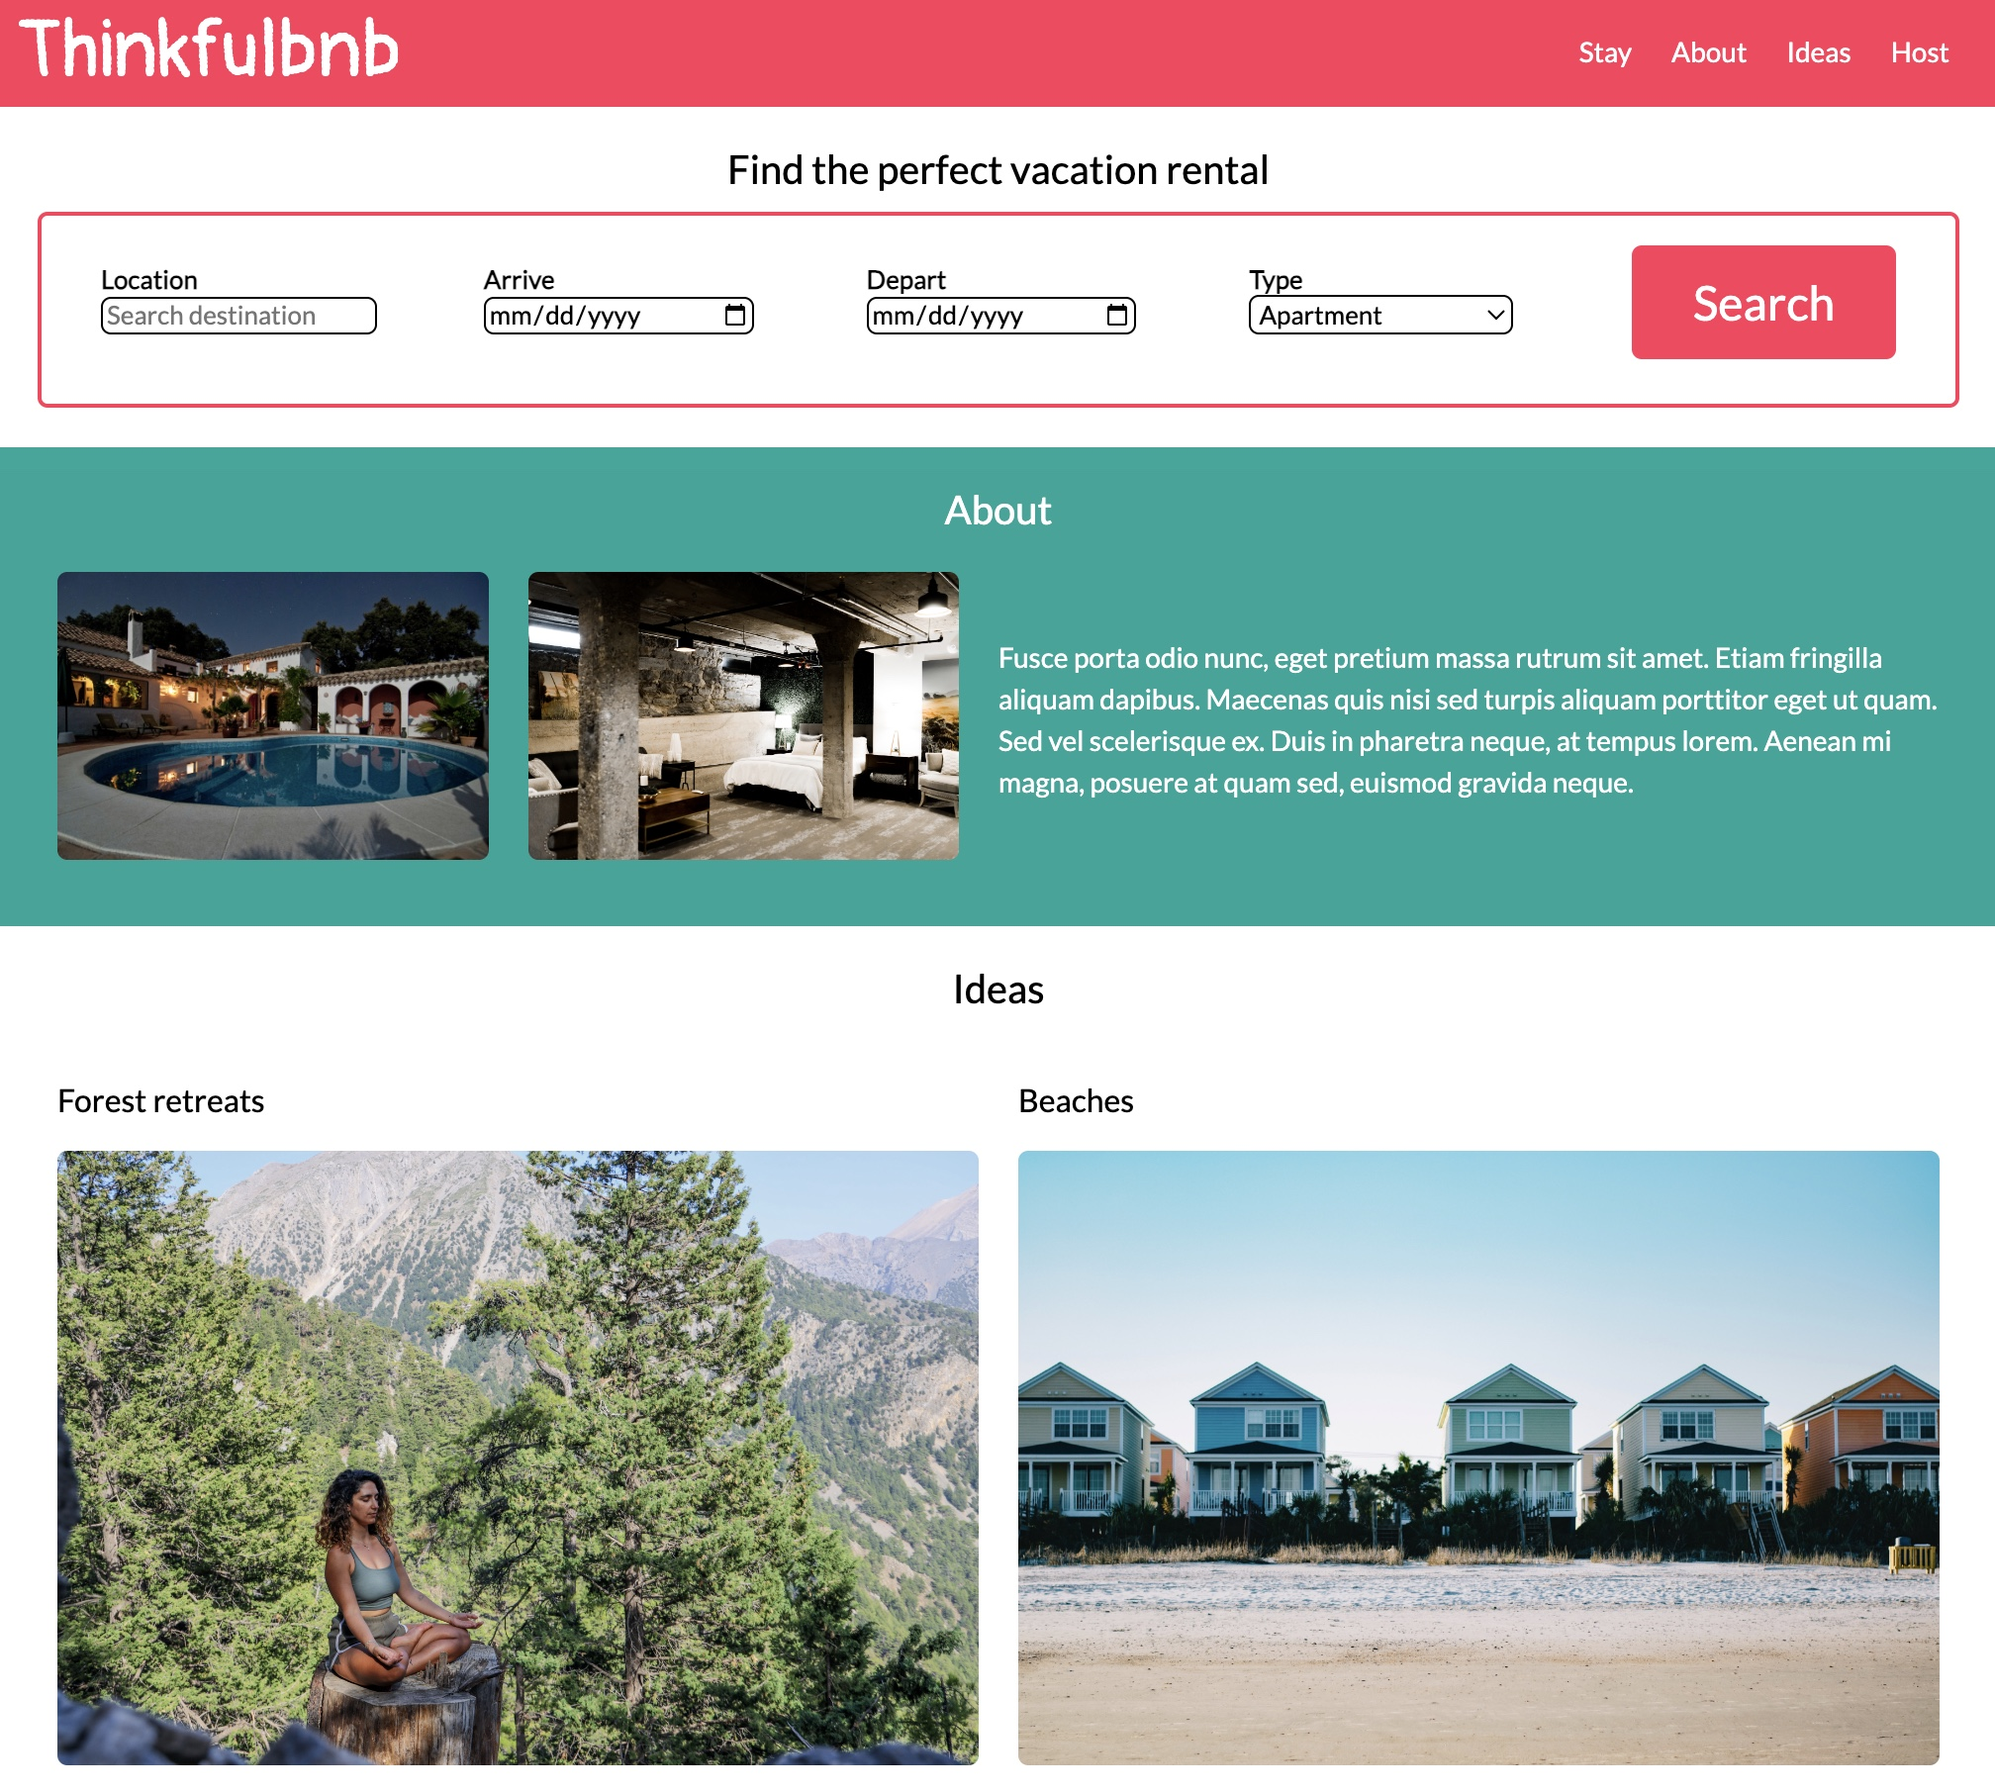
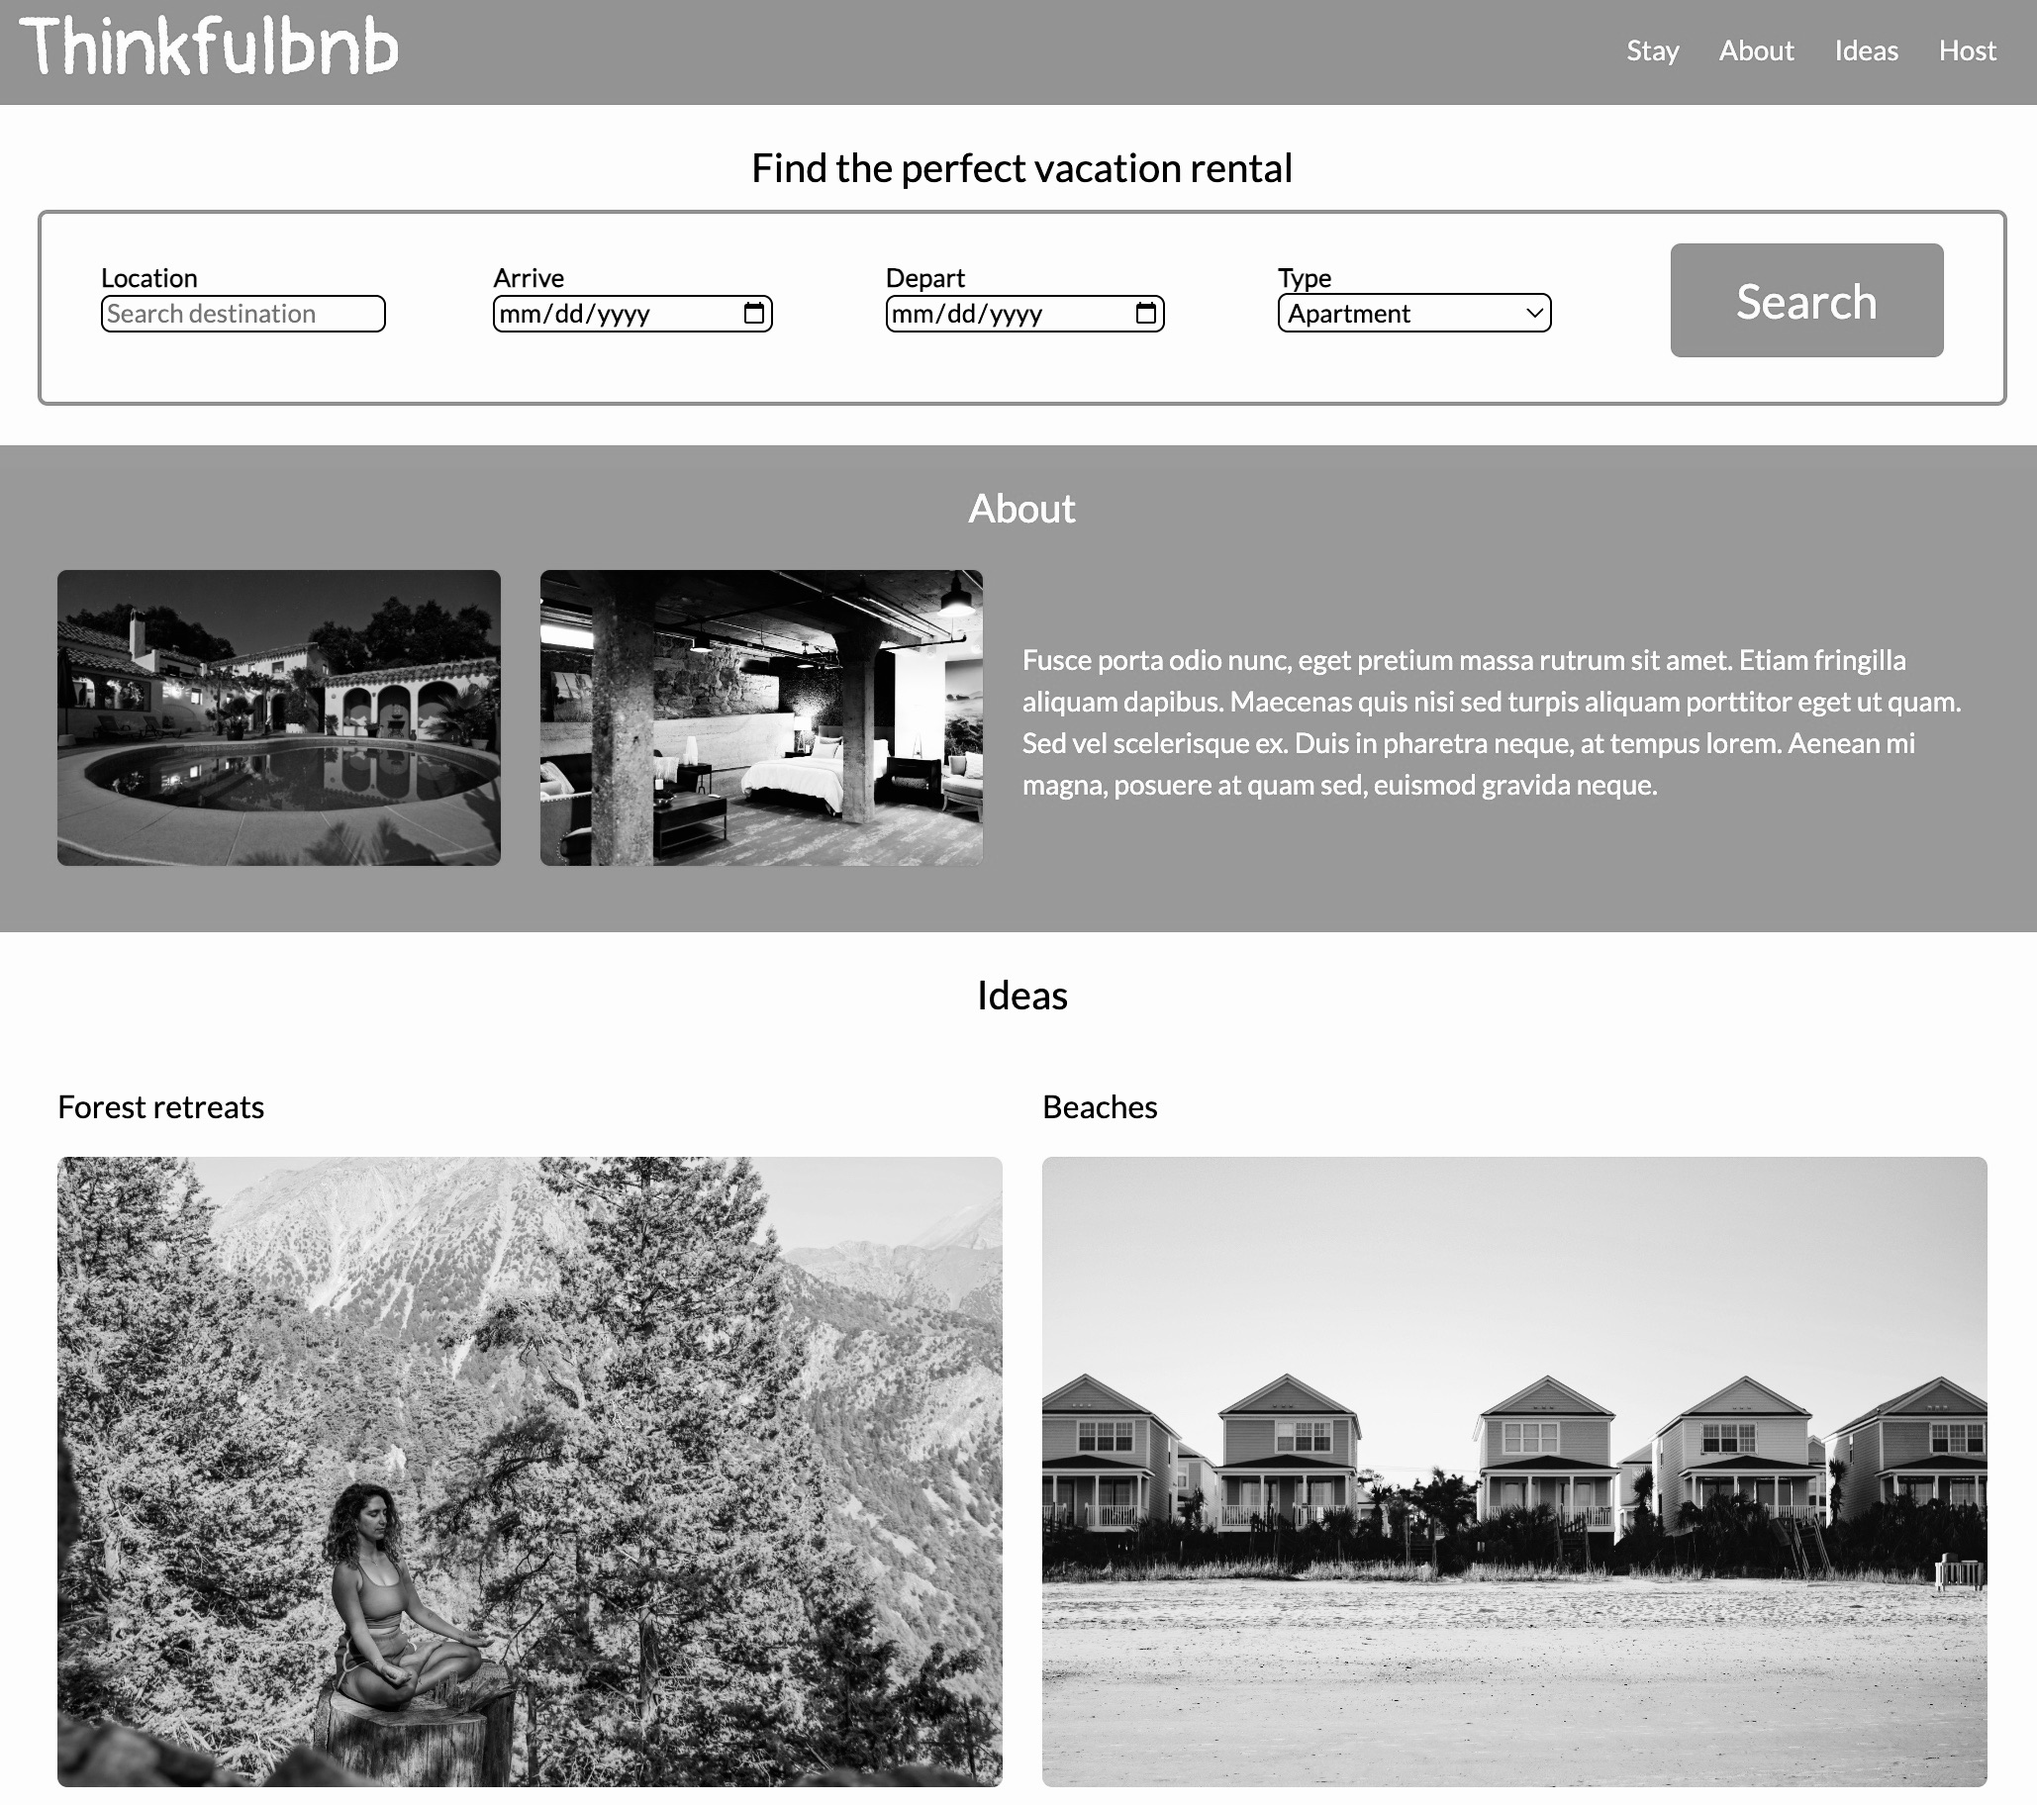
replace all quest images with black and white mono

diff --git a/src/quest-data/QuestData.js b/src/quest-data/QuestData.js
@@ -1,7 +1,7 @@
 import flashcard from "../images/quests/flashcard.jpeg";
 import thinkfulbnb from "../images/quests/thinkfulbnb.jpeg";
 import welovemovies from "../images/quests/welovemovies.jpeg";
-import restaurantReservation from "../images/quests/restaurant-reservation.png";
+import restaurantReservation from "../images/quests/restaurant-reservation.jpeg";
 
 const QuestData = [
     {
